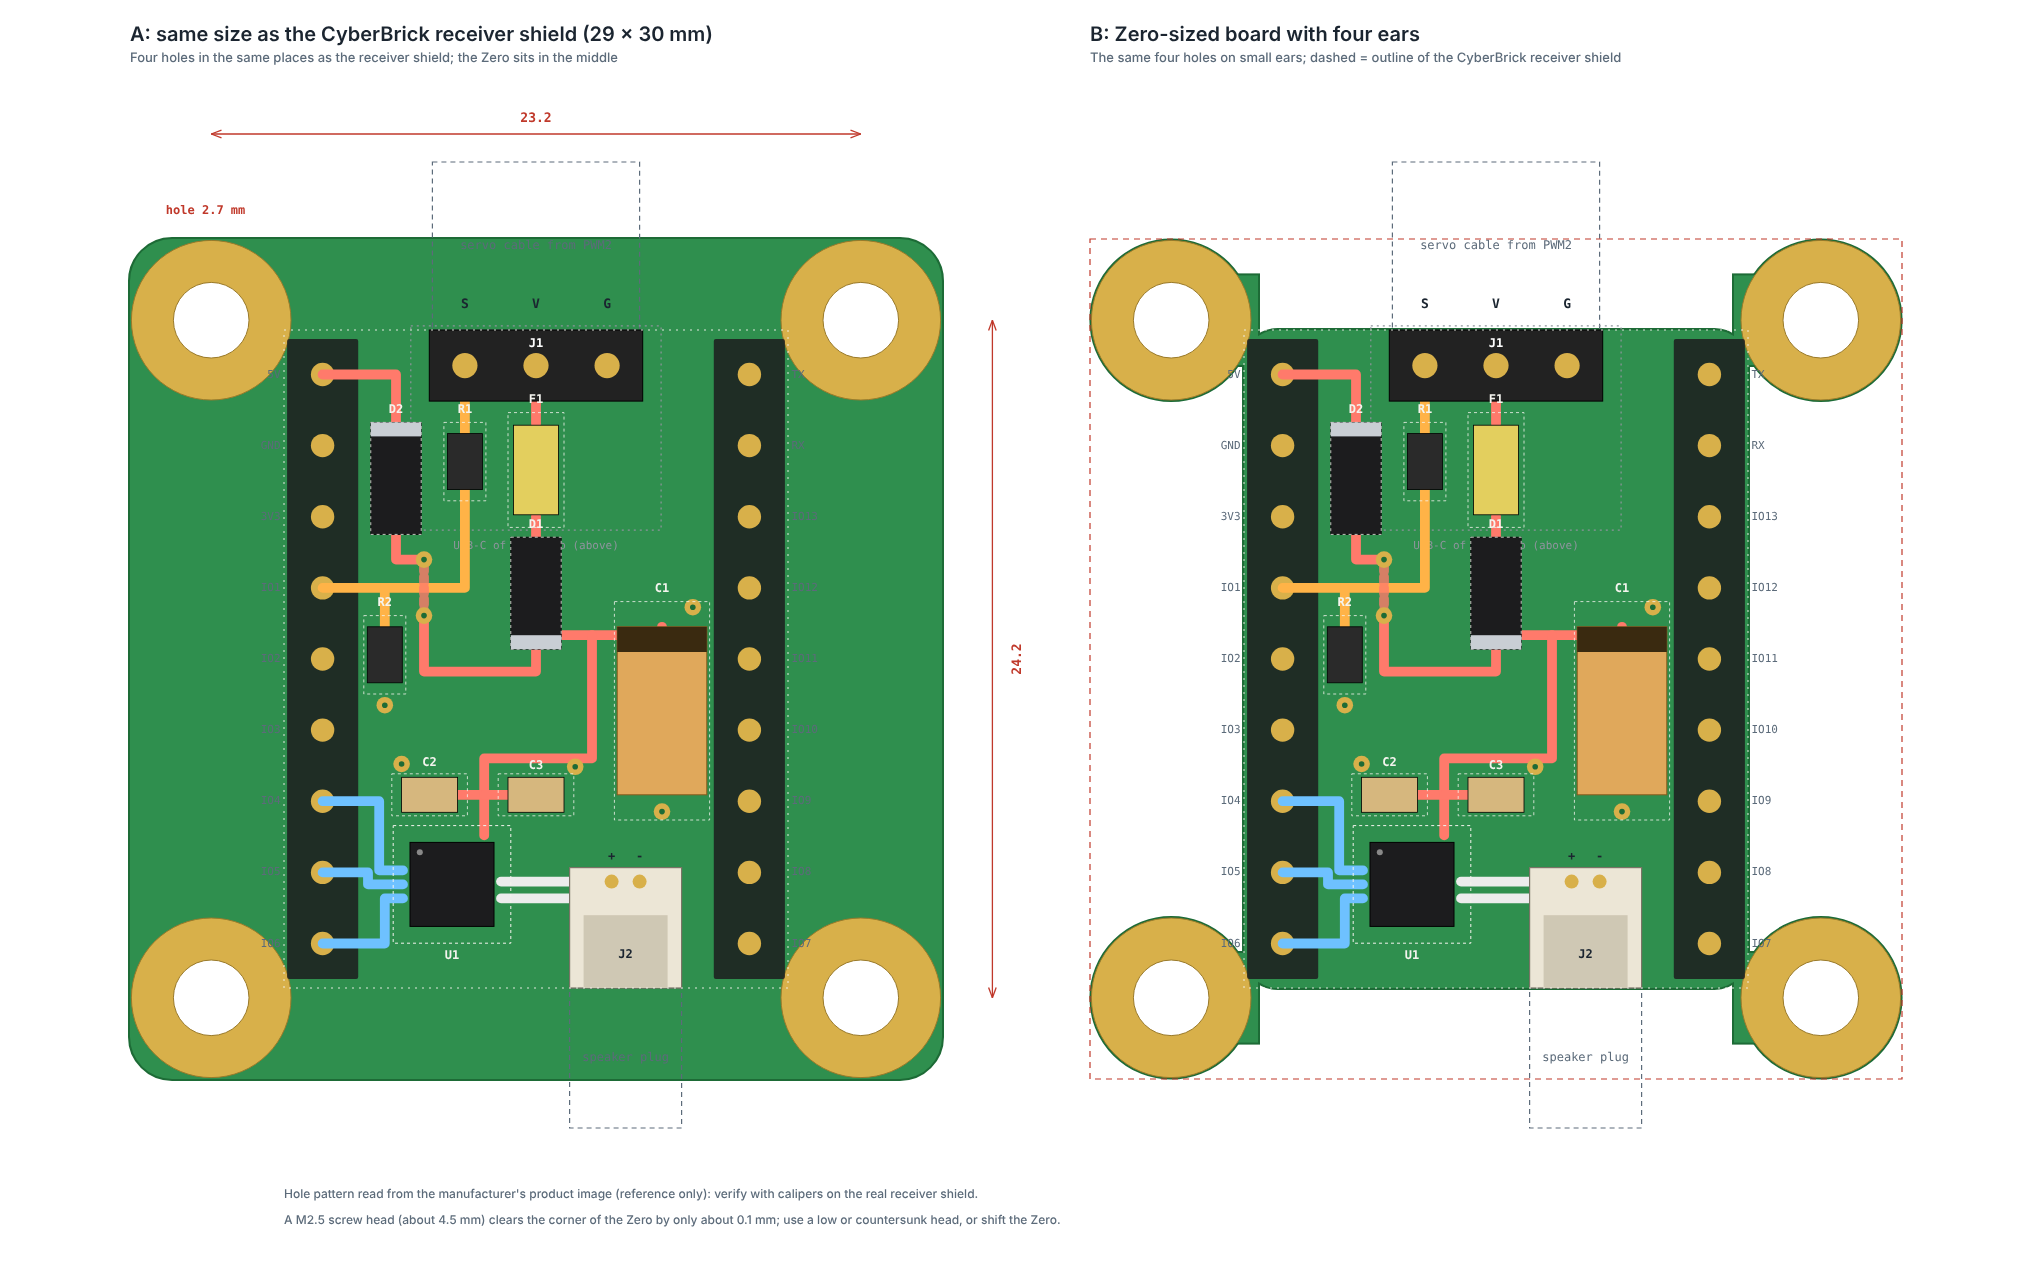
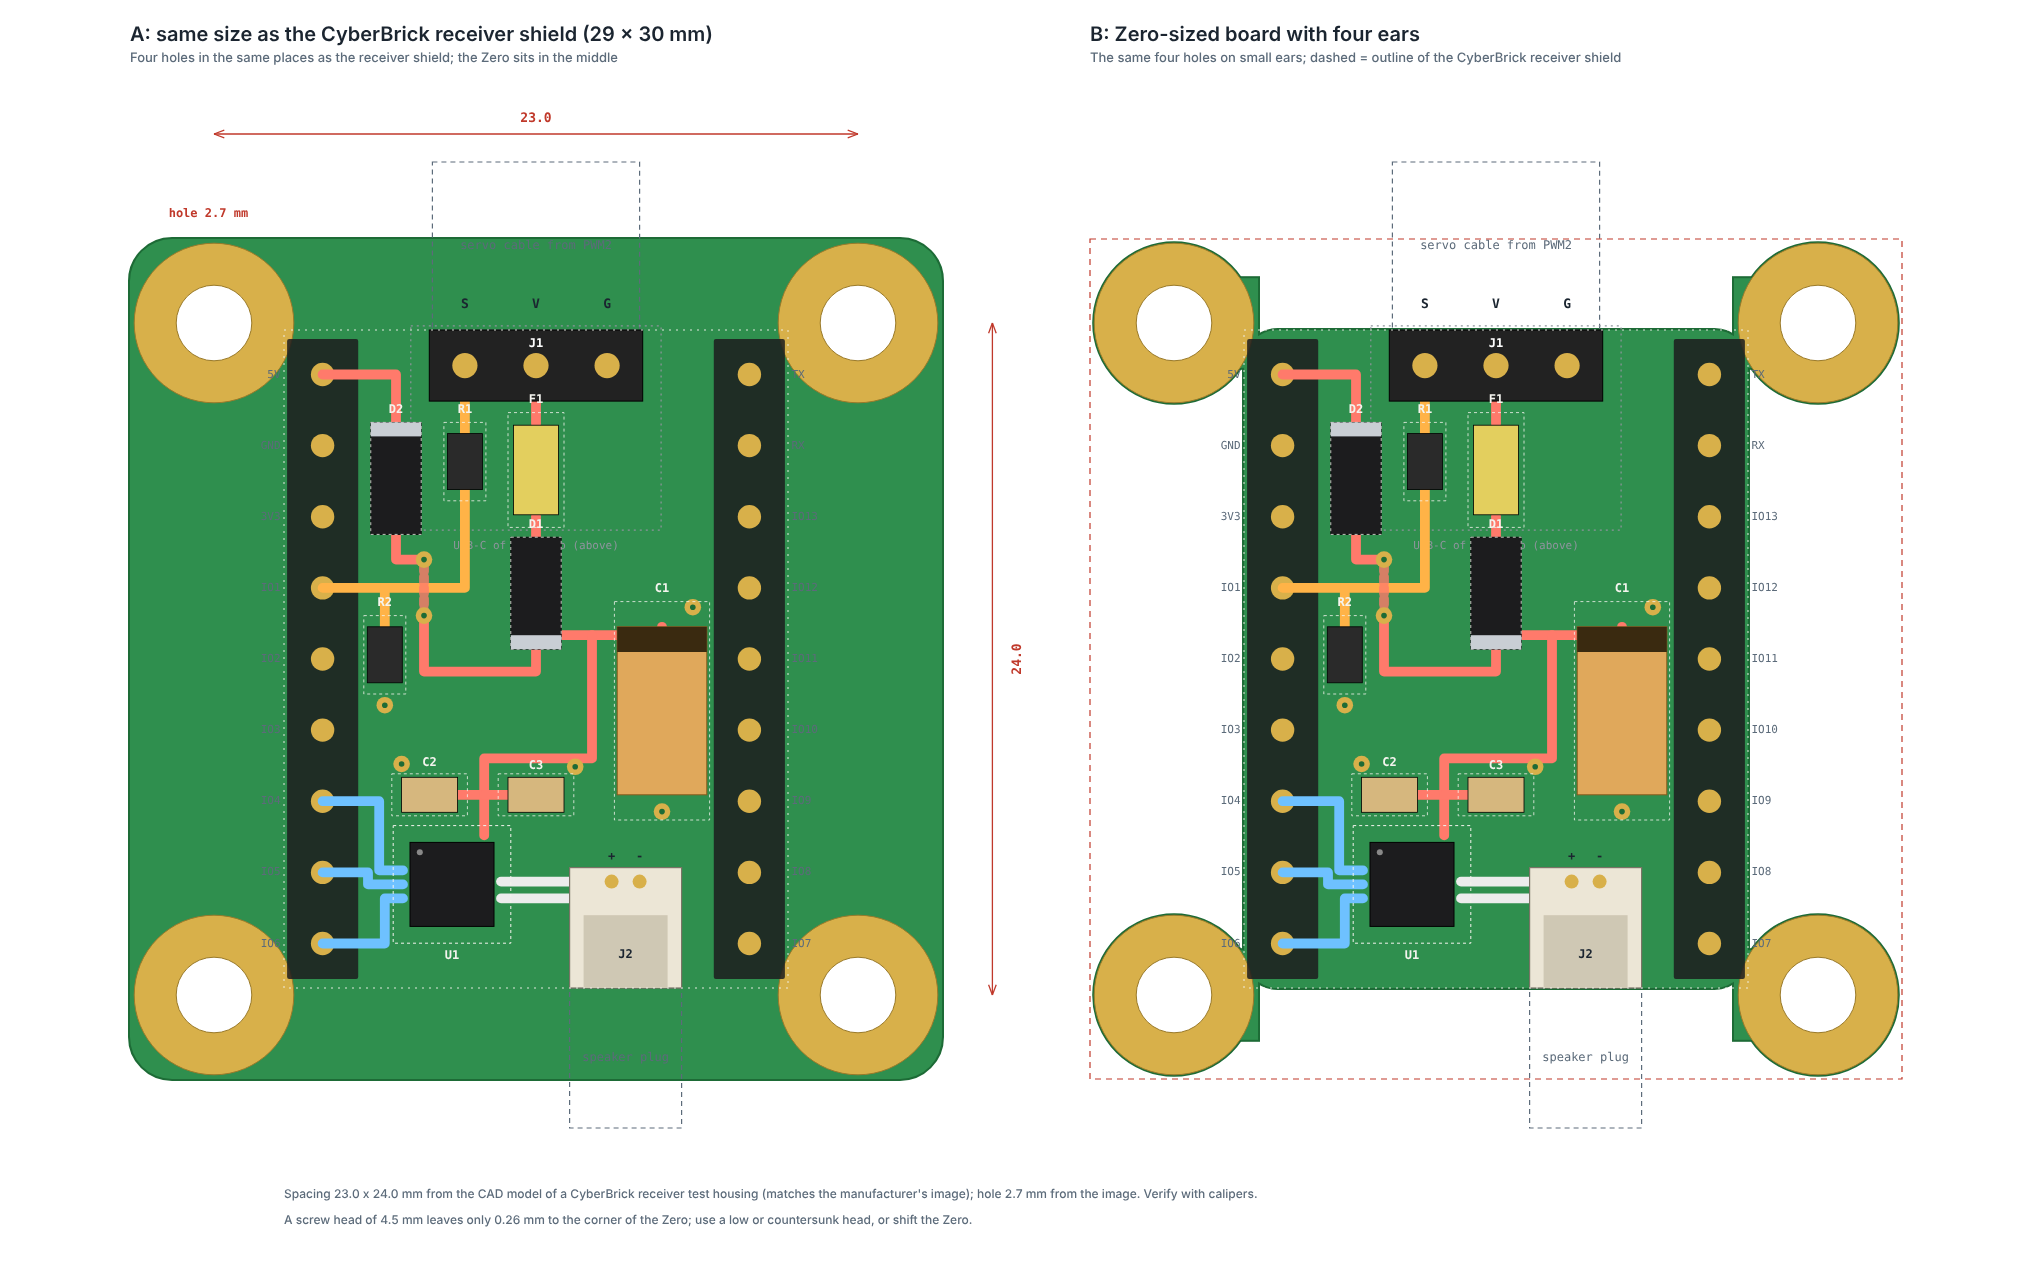
Shield: hole spacing 23.0 x 24.0 mm confirmed by the CyberBrick receiver test housing CAD
Four heat-set insert holes (3.1 mm) at +-11.5 / +-12.0 mm, pocket 30 x 31 mm; matches the image reading (23.2 x 24.2). The 3MF itself is not stored in the repository.

Claude-Session: https://claude.ai/code/session_01RfFviRiwUkSRaVdHR7ASqX

diff --git a/tools/make_shield_mock.py b/tools/make_shield_mock.py
@@ -214,14 +214,14 @@ def build_holes_svg():
     MX = 130 + 5.5 * S
     hx0, hx1 = L.CB_HOLES[0][0], L.CB_HOLES[1][0]
     hy0, hy1 = L.CB_HOLES[0][1], L.CB_HOLES[2][1]
-    body += dim_line(hx0, -7.0, hx1, -7.0, f"{L.CB_DX:g}", off=(0, -0.55))
-    body += dim_line(25.3, hy0, 25.3, hy1, f"{L.CB_DY:g}", off=(0.9, 0), rot=-90)
+    body += dim_line(hx0, -7.0, hx1, -7.0, f"{L.CB_DX:.1f}", off=(0, -0.55))
+    body += dim_line(25.3, hy0, 25.3, hy1, f"{L.CB_DY:.1f}", off=(0.9, 0), rot=-90)
     body.append(text(hx0 - 0.2, hy0 - 3.9, f"hole {L.CB_HOLE_D:g} mm", 12, "middle", 600, "#c0392b"))
     body.append(text(0.0, L.BOARD_H + 7.4,
-                     "Hole pattern read from the manufacturer's product image (reference only): verify with calipers on the real receiver shield.",
+                     "Spacing 23.0 x 24.0 mm from the CAD model of a CyberBrick receiver test housing (matches the manufacturer's image); hole 2.7 mm from the image. Verify with calipers.",
                      12, "start", fill=MUTED, mono=False))
     body.append(text(0.0, L.BOARD_H + 8.3,
-                     "A M2.5 screw head (about 4.5 mm) clears the corner of the Zero by only about 0.1 mm; use a low or countersunk head, or shift the Zero.",
+                     f"A screw head of 4.5 mm leaves only {((L.CB_DX / 2 - L.BOARD_W / 2) ** 2 + (L.CB_DY / 2 - L.BOARD_H / 2) ** 2) ** 0.5 - 2.25:.2f} mm to the corner of the Zero; use a low or countersunk head, or shift the Zero.",
                      12, "start", fill=MUTED, mono=False))
     w = int(130 * 2 + pitch + 29 * S)
     h = int(MY + (L.BOARD_H + 5.5) * S + 140)

diff --git a/tools/shield_layout.py b/tools/shield_layout.py
@@ -91,13 +91,14 @@ LABELS = [
 
 
 # Mounting holes matching the CyberBrick receiver shield (XA004, 29 x 30 mm).
-# Measured on the manufacturer's product image of the receiver shield XA004 (Bambu Lab store; "for reference only",
-# not stored in this repository because of its copyright):
-# four corner holes, diameter 2.7 mm (printed on the image), copper ring about 5.7 mm, centres about 2.9 mm from the
-# board edges, so a spacing of about 23.2 x 24.2 mm. VERIFY with calipers on the real receiver before ordering.
+# Four corner holes, diameter 2.7 mm and copper ring about 5.7 mm (read from the manufacturer's product image of the
+# receiver shield XA004, reference only, not stored here). The spacing is exactly 23.0 x 24.0 mm according to the
+# CAD model of the community "CyberBrick Remote Control Receiver Test Housing" (MakerWorld 1237405), whose four
+# heat-set insert holes (3.1 mm) are at +-11.5 / +-12.0 mm from the centre; the image gives 23.2 x 24.2 mm, i.e. the
+# same within the reading error. Still VERIFY with calipers on the real receiver before ordering.
 CB_W, CB_H = 29.0, 30.0
 CB_HOLE_D, CB_RING_D = 2.7, 5.7
-CB_DX, CB_DY = 23.2, 24.2                       # hole spacing
+CB_DX, CB_DY = 23.0, 24.0                       # hole spacing
 ZERO_CX, ZERO_CY = BOARD_W / 2, BOARD_H / 2     # centre of the Zero; the CyberBrick pattern is centred on it
 CB_HOLES = [[round(ZERO_CX + sx * CB_DX / 2, 2), round(ZERO_CY + sy * CB_DY / 2, 2), CB_HOLE_D]
             for sy in (-1, 1) for sx in (-1, 1)]

diff --git a/docs/shield-pcb.md b/docs/shield-pcb.md
@@ -28,14 +28,14 @@ Mock of the layout (top view, illustrative placement, not routed). An interactiv
 
 ## Mounting holes matching the CyberBrick receiver shield
 
-The receiver shield (XA004) is 29 x 30 mm with four corner holes. From the manufacturer's product image (reference only, not stored here) the holes are 2.7 mm in diameter, with a copper ring of about 5.7 mm, centred about 2.9 mm from the board edges: a spacing of about **23.2 x 24.2 mm**. The pattern fits around the Zero (18 x 23.5 mm), so our board can carry the same four holes in two ways (`shield-mock-holes.png`, generated by `tools/make_shield_mock.py`):
+The receiver shield (XA004) is 29 x 30 mm with four corner holes: 2.7 mm in diameter with a copper ring of about 5.7 mm (from the manufacturer's product image, reference only, not stored here), centred 3.0 mm from the board edges. The spacing is **23.0 x 24.0 mm** according to the CAD model of the community "CyberBrick Remote Control Receiver Test Housing" (its four heat-set insert holes of 3.1 mm are at +-11.5 / +-12.0 mm from the centre; the pocket for the board is 30 x 31 mm); the product image gives the same within its reading error. The pattern fits around the Zero (18 x 23.5 mm), so our board can carry the same four holes in two ways (`shield-mock-holes.png`, generated by `tools/make_shield_mock.py`):
 
 - **A, CyberBrick size (29 x 30 mm):** a plain rectangle like the receiver shield, the Zero in the middle.
 - **B, Zero size with four ears:** the board stays 18 x 23.5 mm and four small ears carry the holes; the dashed outline is the receiver shield.
 
 ![Mounting hole variants](shield-mock-holes.png)
 
-To check before ordering: measure the hole spacing and diameter with calipers on the real receiver, and find out which way the receiver sits in its housing (the J1 and J2 plugs must stay accessible). A M2.5 screw head (about 4.5 mm) clears the corner of the Zero by only about 0.1 mm, so use a low or countersunk head or shift the Zero.
+To check before ordering: measure the hole spacing and diameter with calipers on the real receiver, and find out which way the receiver sits in its housing (the J1 and J2 plugs must stay accessible). A screw head of 4.5 mm leaves only about 0.25 mm to the corner of the Zero, so use a low or countersunk head or shift the Zero. The screw size is not known (the housing's 3.1 mm holes are for heat-set inserts, probably M2, and the 2.7 mm board holes would also take M2.5).
 
 ## Connectors used by CyberBrick
 
